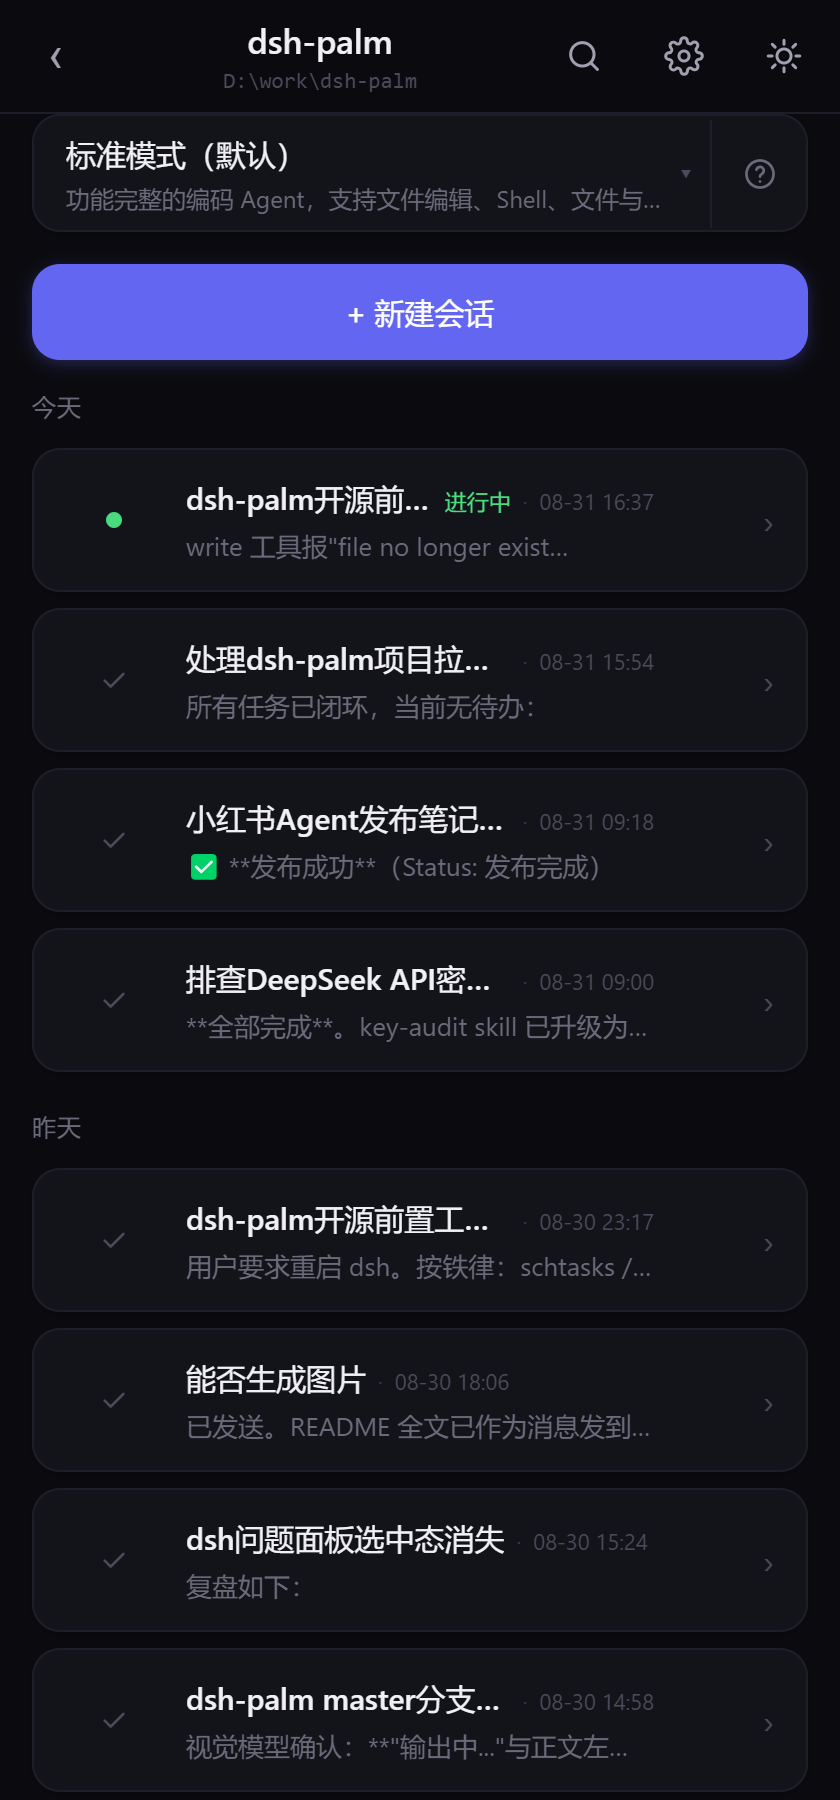
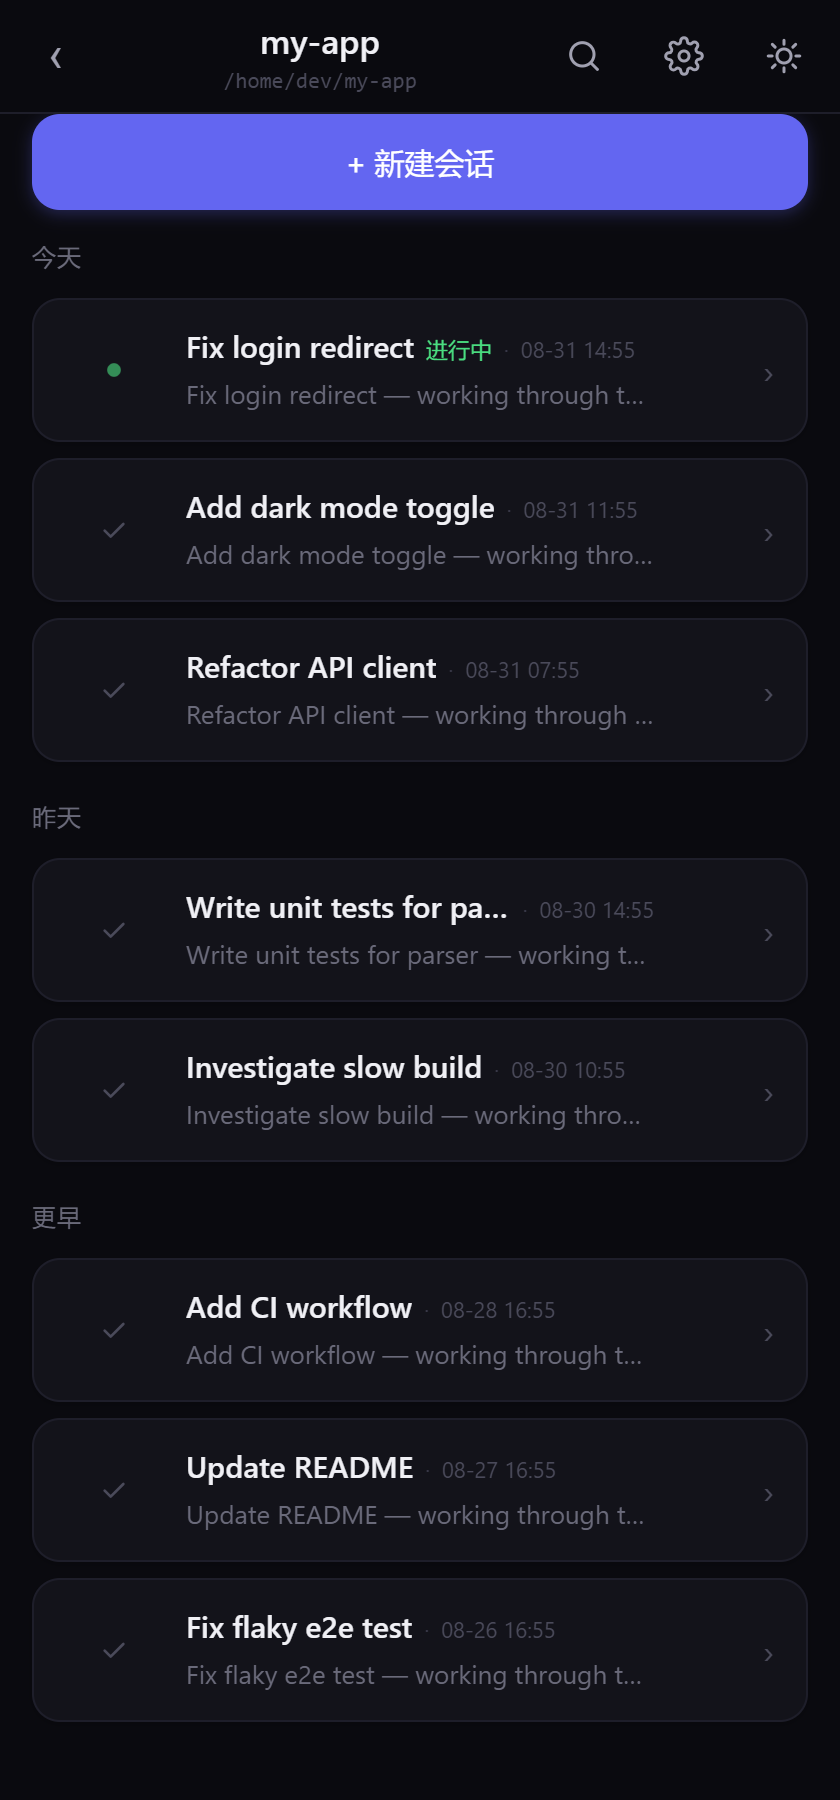
docs: render README screenshots from fictional demo data
All five captures (workspace, session list, chat, diff, attach) are now
rendered by the real /m/ UI against mocked /m/api responses - fictional
project names, session titles and chat content - so no real paths,
session titles or conversation text leaks into the repository. The
mock-data + playwright scripts stay local (they inject a real pairing
cookie and must not ship). READMEs note the demo-data provenance.

diff --git a/README.md b/README.md
@@ -12,7 +12,12 @@ dsh-palm is a **derivative work** of [dsh-remote-web-ui](https://github.com/zhu1
 
 ## Screenshots
 
+> The captures below are rendered by the real `/m/` UI against **fictional
+> demo data** (workspace names, session titles and chat content are made up),
+> so nothing private leaks into the repository.
+
 | | |
+|---|---|
 |---|---|
 | ![Workspace](docs/screenshots/workspace.png) | **Workspace** — project roster with search, pin and recent |
 | ![Session list](docs/screenshots/sessions.png) | **Session list** — per-project sessions grouped by day, with a new-session button |

diff --git a/README.zh-CN.md b/README.zh-CN.md
@@ -12,6 +12,8 @@ dsh-palm 是 [dsh-remote-web-ui](https://github.com/zhu1090093659/dsh-web)（`@l
 
 ## 截图
 
+> 以下截图由真实 `/m/` UI 渲染**虚构演示数据**（项目名、会话标题与聊天内容均为编造），仓库中不会泄露任何真实信息。
+
 | | |
 |---|---|
 | ![工作区](docs/screenshots/workspace.png) | **工作区** —— 项目列表，支持搜索、固定与最近访问 |
